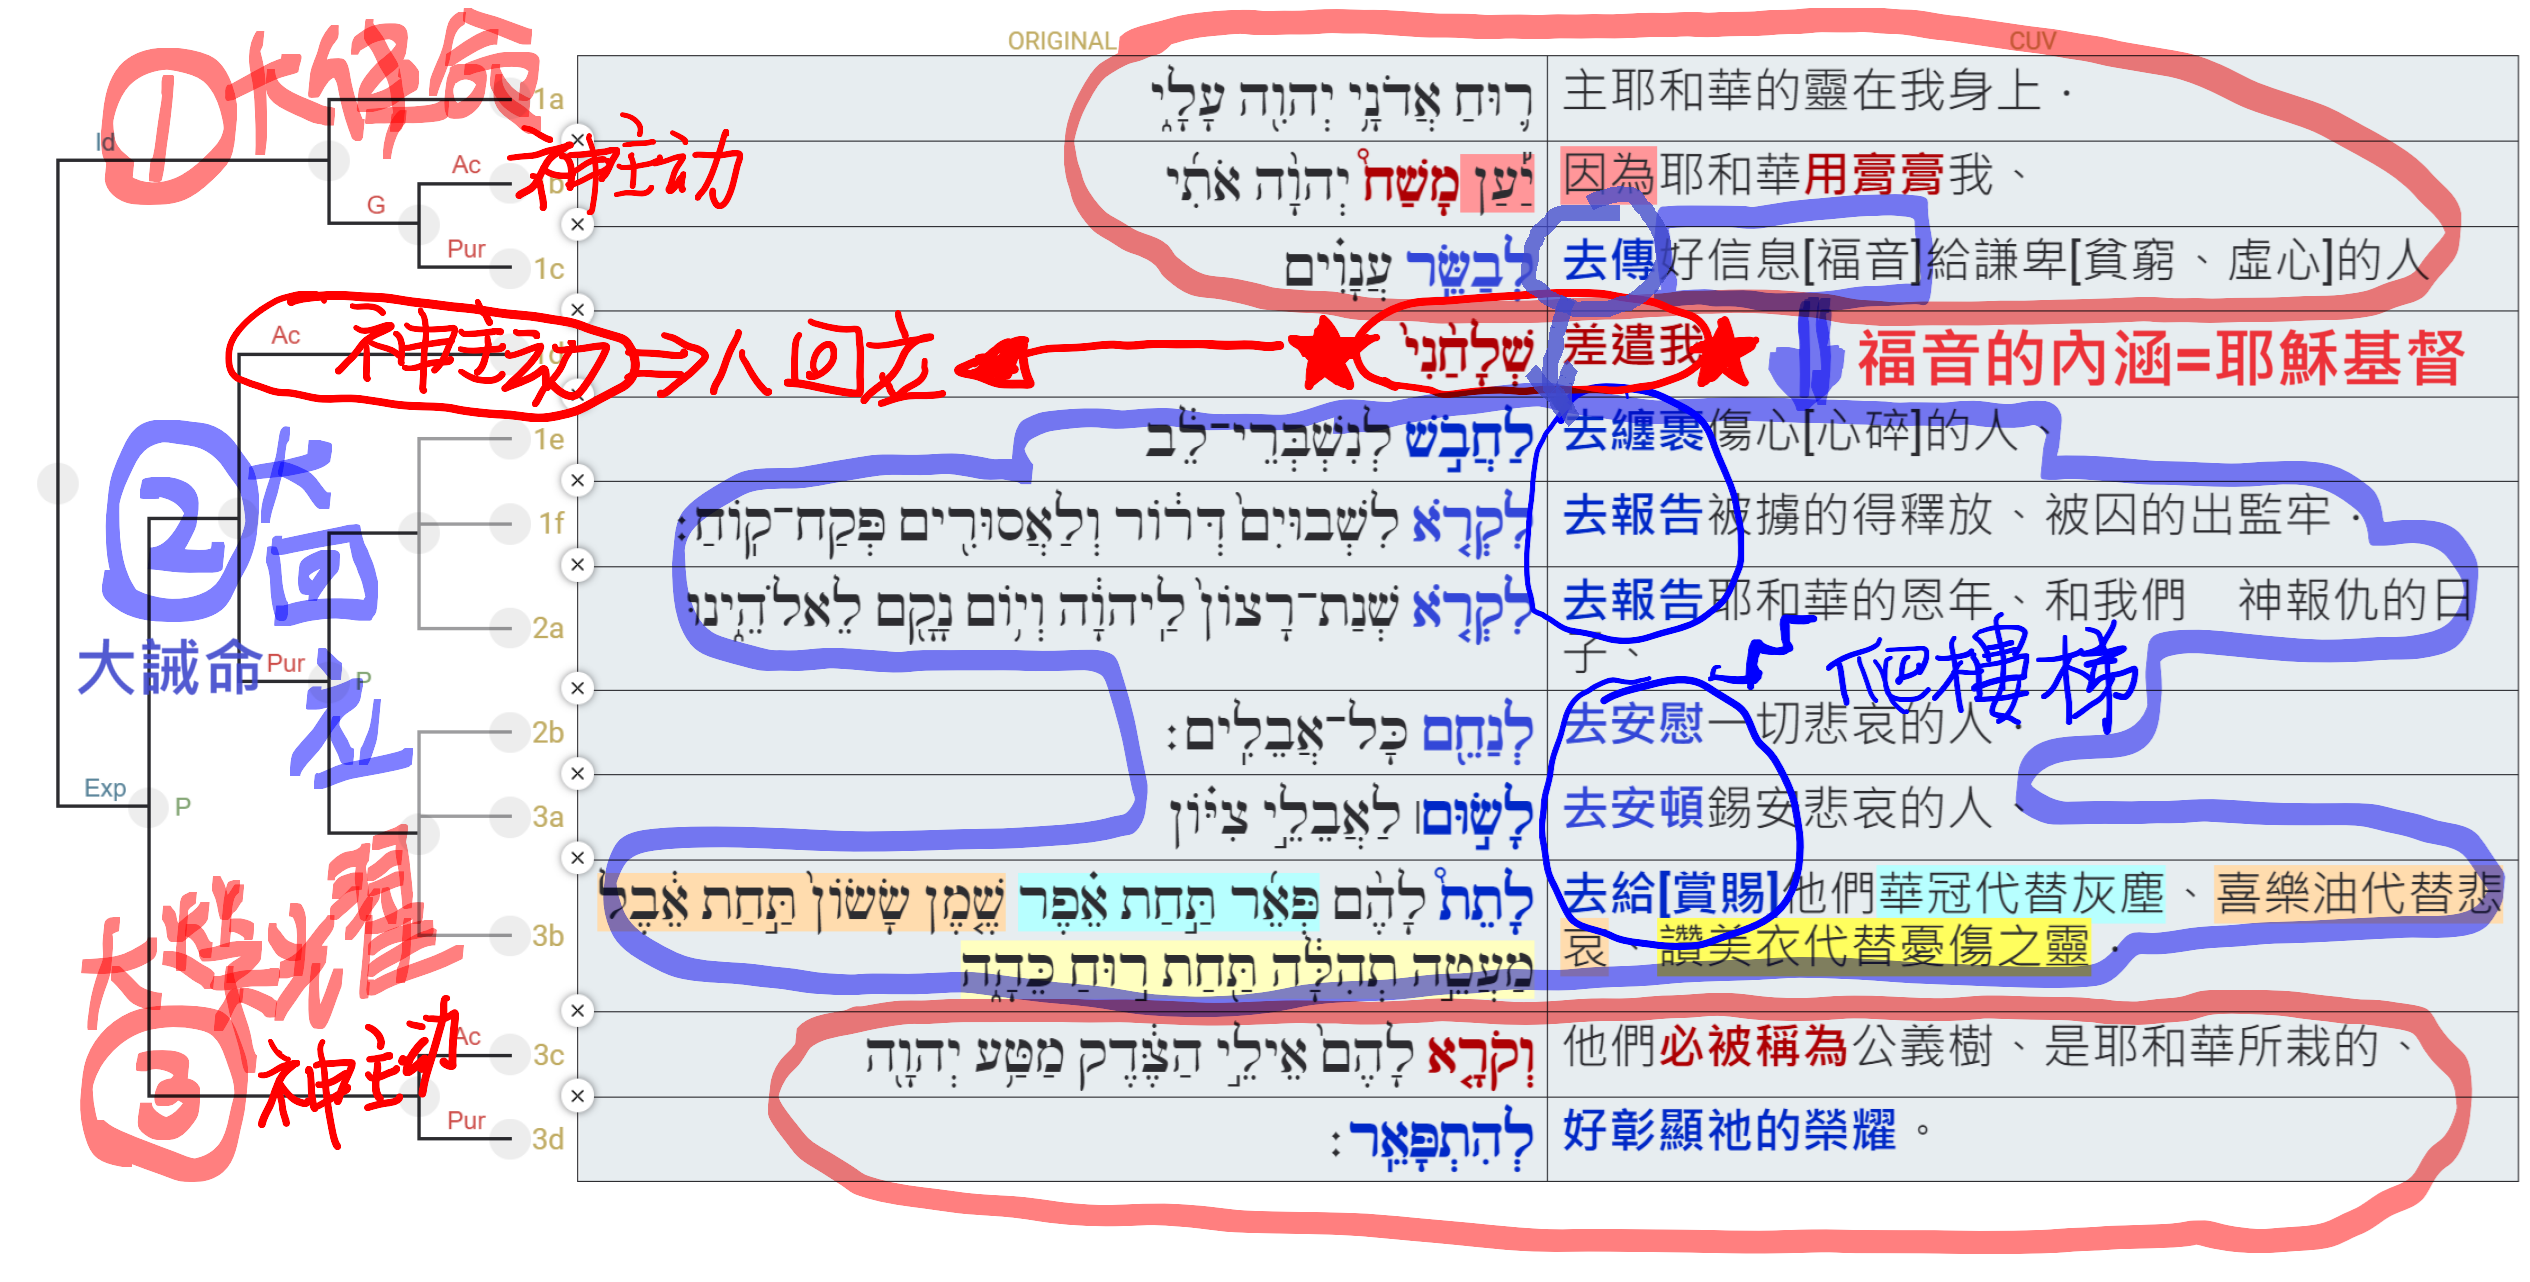
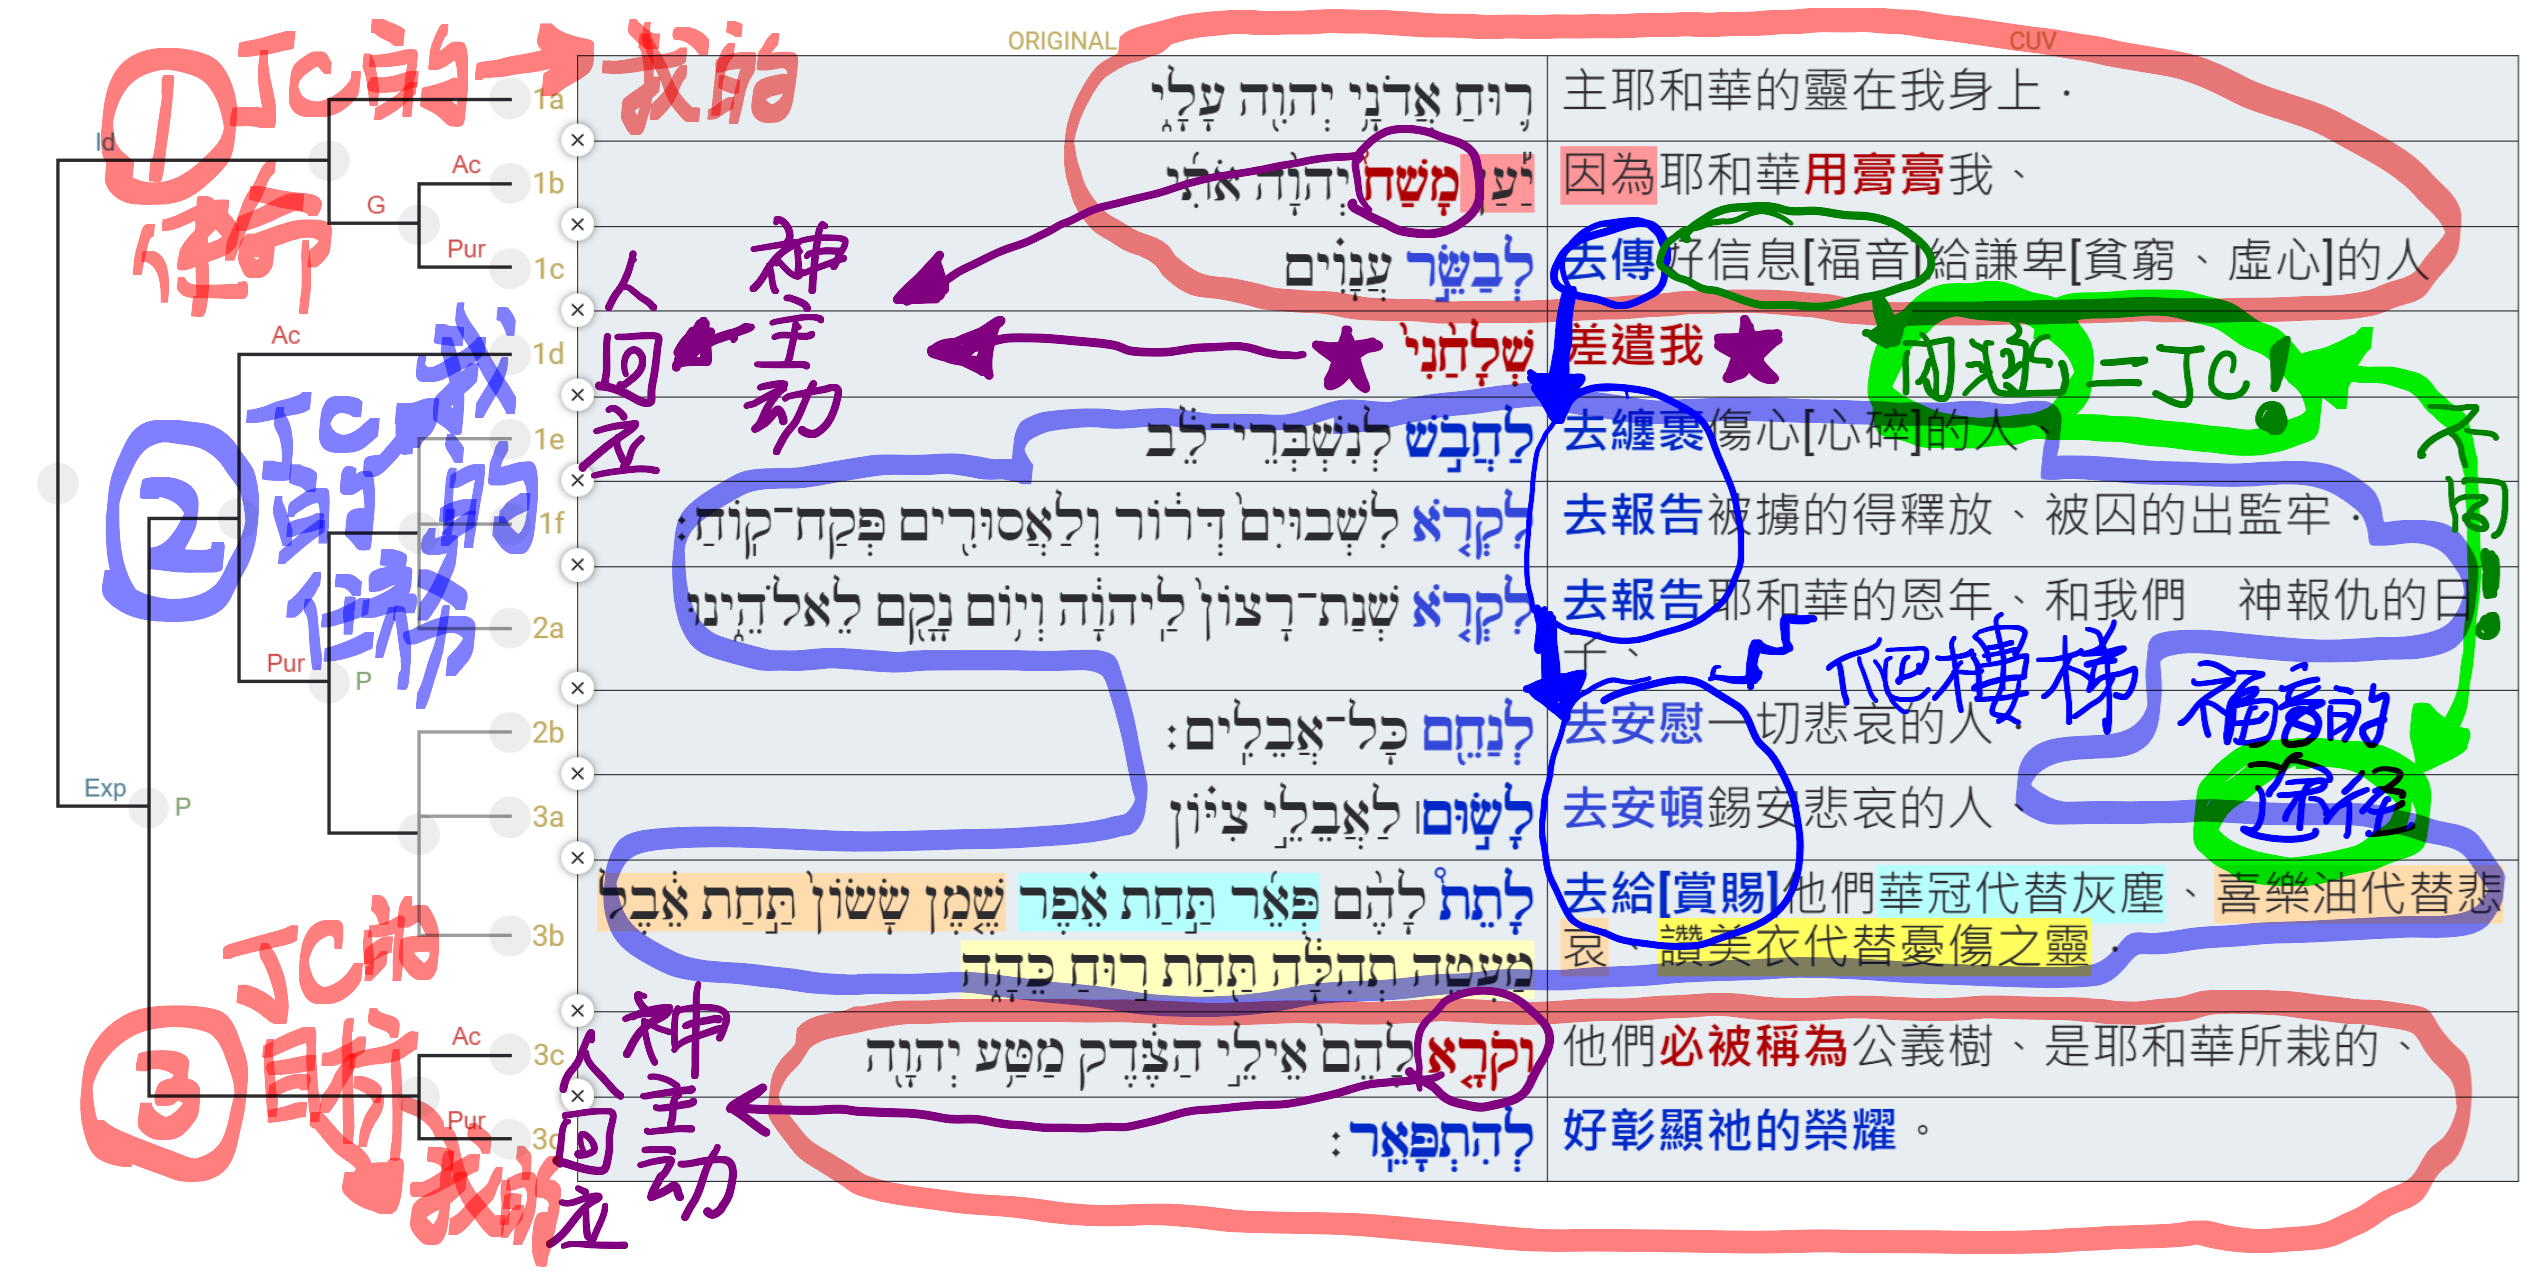
vault backup: 2024-05-26 06:57:16
Affected files:
.obsidian/workspace.json
Isa.61.1-3.md
images/2024-05-26-Isa.61.1-3a.png
images/2025-05-26-Isa.61.1-3.memo.jpg

diff --git a/Isa.61.1-3.md b/Isa.61.1-3.md
@@ -61,12 +61,15 @@
 ## 大綱 (Outline)
 
 - 開場：
-	- 認識耶穌身分&使命的關鍵經文 (路4)
+	- 認識耶穌的關鍵經文 (路4)
 		- 路4:1 耶穌**被聖靈充滿** ...
 		- 路4:17-21 耶穌引用賽61:1-3！！
 		- 基督徒 = 基督的門徒——效法基督！
 			- 約14:12 我實實在在的告訴你們，我所做的事，信我的人也要做，並且要做比這更大的事，因為我往父那裡去。 
-		- **認識耶穌 = 認識自己的身分&使命——紛擾世界安身立命的根基！**
+		- **認識耶穌一生的使命 = 認識自己一生的使命**
+		- **認識耶穌一生的任務 = 認識自己一生的任務**
+		- **認識耶穌一生的目標 = 認識自己一生的目標**
+		- 合起來，就是<mark>基督徒人生抉擇的依據，優先順序的指南，安身立命的根基！</mark>
 	- 賽61:1-3 男主角登場——自我介紹！！
 		- 以賽亞書 = 整本聖經的縮影；66 = 39 + 27
 		- 40-55章：四首僕人之歌(賽42→49→50→52/53)，預告基督 = 彌賽亞要以受苦僕人的方式，帶來上帝最終的救恩
@@ -75,30 +78,33 @@
 			- 賽59:21 耶和華說：至於**我與他們所立的約**乃是這樣：**我加給你的靈，傳給你的話**，必不離你的口，也不離你後裔與你後裔之後裔的口，從今直到永遠；這是耶和華說的。 
 			- 賽60:1 興起，發光！因為你的光已經來到！耶和華的榮耀發現照耀你。 
 		- 賽61:1-3 主耶和華的靈在我身上 ... ⇒ 男主角登場——自我介紹！！
-- (1) <mark>大使命 (61:1abc)</mark> ⇐ 聖靈充滿的目的
-	- 廣義的大使命，從舊約就開始！廣義的大使命，包含人生的每一方面！
-		- **因為：耶和華的靈在我身上！BEING ⇒ DOING！**
-	- 聖靈膏抹的目的：傳福音 ⇒ 虛心(現代中文：*承認自己靈性貧乏的人*)的人 (太5:3 八福)
-		- **福音的內涵 = 耶穌基督** = 耶穌基督並他釘十字架 = 耶穌的身教言教死裡復活升天再來全套！
-		- 耶穌把自己獻上，成為福音的內涵
-- (2) <mark>大誡命 (61:1d-3b)</mark> ⇐ 聖靈充滿的行動
-	- 傳福音的啟動：神差遣！⇐ 不是人的主動；但，耶穌(太28)已經差遣了😀
-	- 去做。。。 = 大誡命 = **用行動&言語去傳耶穌基督** = 傳福音(61:1c) 的具體行動！
-		- 
-		- 去纏裹 → 去報告 → 去報告 → 去安慰 → 去安頓 → 去賞賜 (六層爬樓梯！)
-			- 纏裹——心碎的人 (傷心、失望、遺憾、背叛、分離)
-			- 報告——被擄的、被囚的 (被罪惡、被情感、被環境、被惡習)
-			- 報告——恩年、報仇 (不公不義、欺壓霸凌、虐待)
-			- 安頓——身心靈無所依
-			- 賞賜——今生的改變、永生的盼望
-		- 從今生 → 永生；耶穌#1來 → 耶穌#2來！(太28:20 ...直到世界的末了...)
-- (3) <mark>大榮耀 (61:3cd)</mark> ⇐ 聖靈充滿的結果
+- (1) <mark>耶穌的使命 (61:1abc) = 我的使命</mark> ⇐ 聖靈充滿的原因
+	- 耶穌的使命 = 傳福音給：謙卑、虛心(現代中文：*承認自己靈性貧乏的人*)的人 (太5:3 八福)
+	- 與耶穌不同：**耶穌自己就是福音** ⇒ 耶穌是傳自己，我們是傳耶穌
+		- 耶穌基督並他釘十字架 = 耶穌的身教言教死裡復活升天再來的總和！
+	- 聖靈充滿的原因：「因為」——耶穌的使命 ⇒ 基督徒的大使命！
+		- Mat 28 吩咐完還不夠，還要 Act 2 聖靈充滿
+- (2) <mark>耶穌的任務 (61:1d-3b) = 我的任務</mark> ⇐ 聖靈充滿所帶出的行動
+	- 神主動差遣 ⇒ 人要「按照神的要求」去回應
+		- 對象：人
+			- 不是物、不是人以外的其他受造界！
+			- 不是所有人，而是傷心人、悲哀人、受壓迫之人！
+			- 不是只有慕道友！基督徒也需要！
+	- 要區分「途徑」與「內涵」——途徑，慈濟也做；內涵，卻是耶穌！
+	- 去纏裹 → 去報告 → 去報告 → 去安慰 → 去安頓 → 去賞賜 (六層爬樓梯！)
+		- 纏裹——心碎的人 (傷心、失望、遺憾、背叛、分離)
+		- 報告——被擄的、被囚的 (被罪惡、被情感、被環境、被惡習)
+		- 報告——恩年、報仇 (不公不義、欺壓霸凌、虐待)
+		- 安頓——身心靈無所依
+		- 賞賜——今生的改變、永生的盼望
+		- 包括物質層面 & 心靈層面，包含今生 & 永生：耶穌#1來 → 耶穌#2來！(太28:20 ...直到世界的末了...)
+- (3) <mark>耶穌的目標 (61:3cd) = 我的目標</mark> ⇐ 聖靈充滿要產生的的結果
 	- 公義樹 = 信徒得榮耀——全是耶和華所做的——花園美，園丁得榮耀
-	- e.g. 公園花展
+		- e.g. 公園花展
 
 ## 小抄 (memo)
 
-
+![images/2025-05-26-Isa.61.1-3.memo.jpg](images/2025-05-26-Isa.61.1-3.memo.jpg)
 
 ---
 
